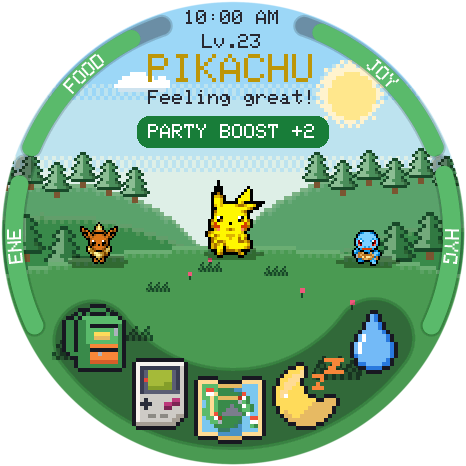
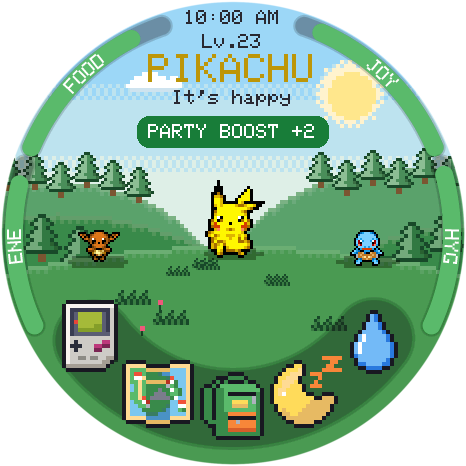
PokeWebGochi 2.0.5 ({"build":"1efac308d5"})

diff --git a/index.html b/index.html
@@ -80,7 +80,7 @@ const img = ctx.createImageData(SIDE, SIDE);
 const msg = document.getElementById('msg');
 let skipSave = false;  // an import replaces the save: the running game must not write over it
 
-const BUILD = '959ea7c925';  // stamped by build.sh: every file of one version is fetched together
+const BUILD = '1efac308d5';  // stamped by build.sh: every file of one version is fetched together
 var Module = {
   noInitialRun: false,
   locateFile: (path) => path + '?v=' + BUILD,
@@ -439,6 +439,6 @@ document.getElementById('import').addEventListener('change', async (e) => {
   sync(() => location.reload());
 });
 </script>
-<script src="pokewebgochi.js?v=959ea7c925"></script>
+<script src="pokewebgochi.js?v=1efac308d5"></script>
 </body>
 </html>

diff --git a/README.md b/README.md
@@ -33,7 +33,7 @@ Tap, hold and swipe the screen, and tilt your phone to aim a Poké Ball. iPhones
 
 ## How to play
 
-- **Tap your Pokémon** to pet it. The icons along the bottom, from left to right, open your bag to feed it, open the mini games, start a battle, turn off the light at bedtime and give it a bath.
+- **Tap your Pokémon** to pet it. The icons along the bottom, from left to right, open the mini games, start a battle, open your bag to feed it (in the middle), turn off the light at bedtime and give it a bath.
 - **Hold your Pokémon** for the menu, a ring of **Settings** (sound, language, and an **About** page with links to the code and the YouTube channel), **Medals** (the trophy room), **Stats** (its card: tap its name there to rename it) and the **Pokédex**. Slide onto one and let go, or let go first and tap one. The round **✕** at the bottom closes any of them, and the arrows at the sides (or a swipe) turn their pages.
 - **Battle** with the map icon: travel to a zone and search, or tap **Wild Encounter** to meet a wild Pokémon at your Pokémon's home, and catch what you beat to fill your Pokédex: tap a ball to choose it and **Throw** to throw it at the Pokémon running back and forth, leaning (or using the arrow keys) to aim. Every catch has 1 to 3 ★, and a better one replaces yours. Every 25 battles you see through earn an **Ultra Ball**, which triples the chance, and every 100 a **Master Ball**, which always catches.
 - On a computer, the mouse is a finger: it presses when you click, and what's under it lifts a little. The **left and right arrows** tilt, **all four arrows** walk in PokeDungeon, **Space** starts a wild battle, and on a catch the **left and right arrows** choose a ball and **Space** or the **up arrow** throws it.
